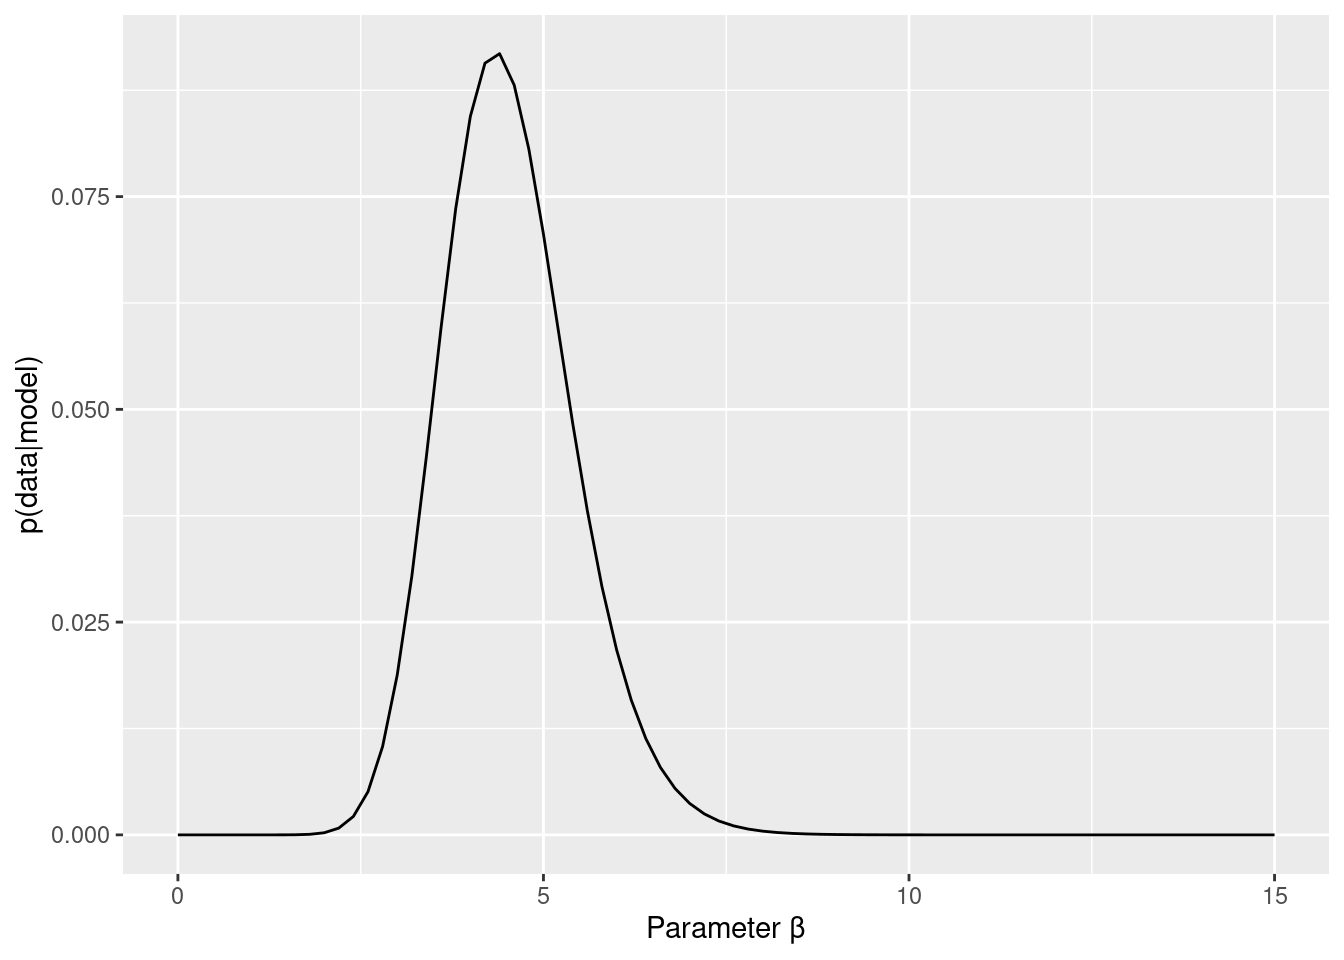
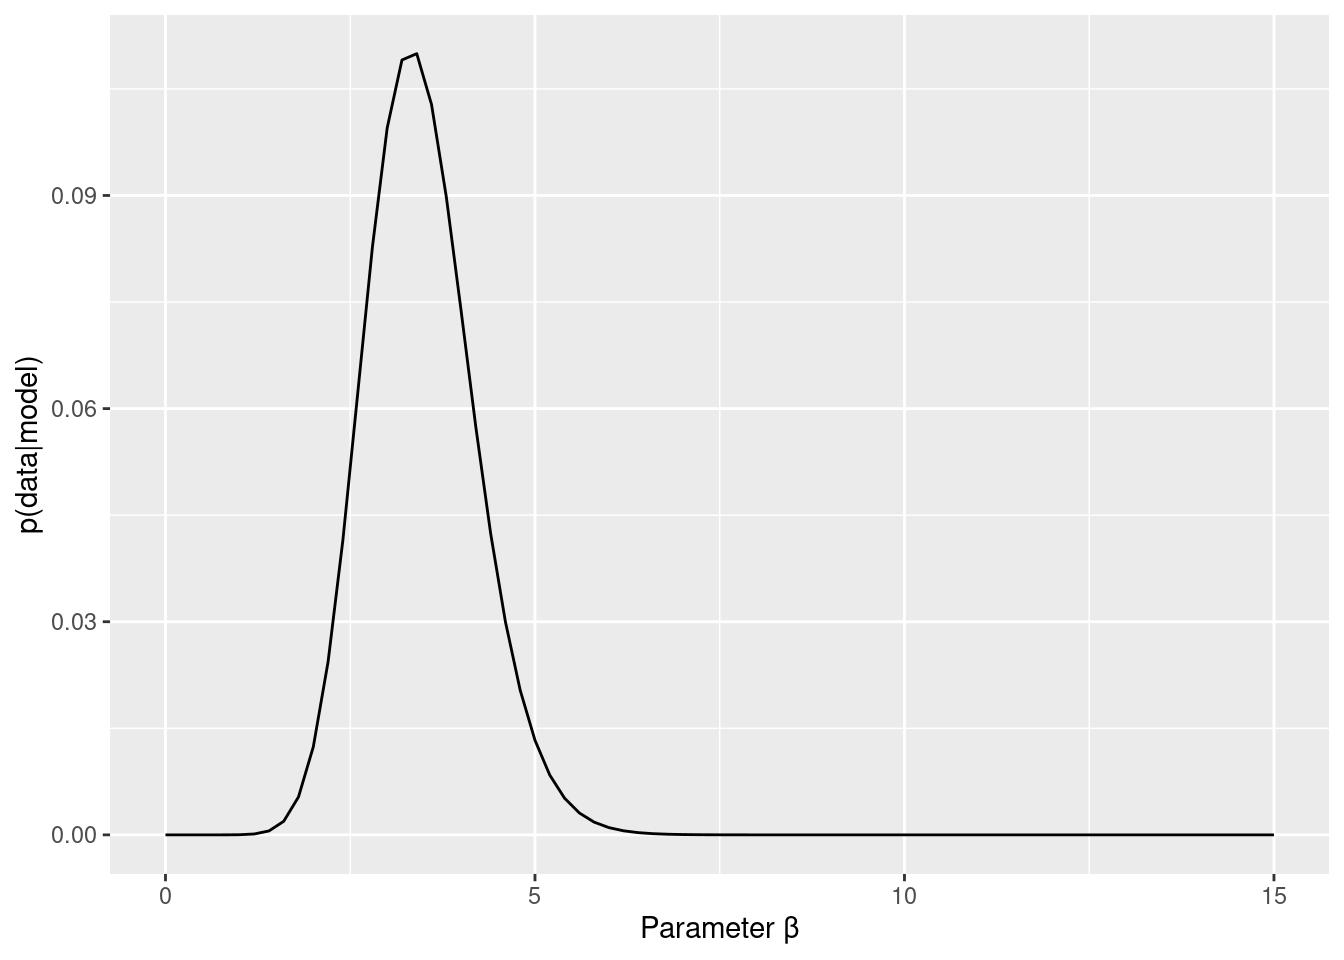
update

diff --git a/docs/how-to-cognitive-modeling-rl1.html b/docs/how-to-cognitive-modeling-rl1.html
@@ -386,8 +386,8 @@ div.tocify {
 </div>
 
 
-<div id="認知モデリングの推奨実践法" class="section level1">
-<h1>認知モデリングの推奨実践法</h1>
+<div id="認知モデリングの推奨実践法" class="section level2">
+<h2>認知モデリングの推奨実践法</h2>
 <ul>
 <li><p>Busemeyer &amp; Diederich(2010), Heathcote (2015), Palminteri et al.(2017)を参考にまとめると，以下のような感じになります。</p></li>
 <li><p>A 認知課題と認知モデルを準備</p></li>
@@ -403,17 +403,17 @@ div.tocify {
 <li>Heathcote, A., Brown, S. D., &amp; Wagenmakers, E.-J. (2015). An Introduction to Good Practices in Cognitive Modeling. In B. U. Forstmann &amp; E.-J. Wagenmakers (Eds.), An Introduction to Model-Based Cognitive Neuroscience (pp. 25–48). Springer New York.</li>
 <li>Palminteri, S., Wyart, V., &amp; Koechlin, E. (2017). The Importance of Falsification in Computational Cognitive Modeling. Trends in Cognitive Sciences, 21(6), 425–433.</li>
 </ul>
-</div>
-<div id="使用するrパッケージ" class="section level1">
-<h1>使用するRパッケージ</h1>
+<div id="使用するrパッケージ" class="section level3">
+<h3>使用するRパッケージ</h3>
 <pre class="r"><code>rm(list = ls())
 library(tidyverse)
 library(fields)</code></pre>
 </div>
-<div id="a-認知課題と認知モデルを準備" class="section level1">
-<h1>A 認知課題と認知モデルを準備</h1>
-<div id="逆転学習課題" class="section level2">
-<h2>逆転学習課題</h2>
+</div>
+<div id="a-認知課題と認知モデルを準備" class="section level2">
+<h2>A 認知課題と認知モデルを準備</h2>
+<div id="逆転学習課題" class="section level3">
+<h3>逆転学習課題</h3>
 <p>逆転学習課題は以下のような課題です。</p>
 <ul>
 <li><p>Cools et al.(2001)：合計80試行（前半40試行，後半逆転して40試行），フィードバックは顔（ポジティブが緑の嬉しい顔，ネガティブが赤の悲しい顔)，報酬:罰比は，80:20。</p></li>
@@ -421,6 +421,7 @@ library(fields)</code></pre>
 <li><p>den Ouden et al.(2013)を参考に，選択はマウスでクリックする，80試行は疑似ランダム化された事前に決めた順番で提示する，参加者には変化する正答刺激を特定するように教示する。</p></li>
 <li><p>Waegeman et al.(2014)を参考に，最大2000ms選択画面を呈示する（押したら次に進む），選択した刺激を枠で囲って500ms呈示し，フィードバックを500ms呈示し，500ms-1500ms固視点(+)を呈示する。</p></li>
 </ul>
+</div>
 <div id="逆転学習課題の構造の確認" class="section level3">
 <h3>逆転学習課題の構造の確認</h3>
 <p>s1は，前半40試行において20％の確率で報酬のフィードバックがなされ，後半40試行で80%の確率でフィードバックがなされます（s2はその逆になる）。prob_s1とprob_s2に確率を設定して，reward_s1とreward_s2でランダムに80%や20%の確率で報酬が出てくるのを設定します。</p>
@@ -437,9 +438,8 @@ library(fields)</code></pre>
   geom_point(aes(x = trial, y = reward_s2),colour = &#39;red&#39;)</code></pre>
 <p><img src="how-to-cognitive-modeling-rl1_files/figure-html/unnamed-chunk-3-1.png" width="672" /></p>
 </div>
-</div>
-<div id="強化学習モデルq-learningモデル" class="section level2">
-<h2>強化学習モデル(Q learningモデル)</h2>
+<div id="強化学習モデルq-learningモデル" class="section level3">
+<h3>強化学習モデル(Q learningモデル)</h3>
 <ul>
 <li>Q learningモデルにおける更新式は以下の通りになります。</li>
 </ul>
@@ -474,6 +474,7 @@ P\left(a_{i} \mid s\right)=\frac{\exp \left[\beta Q\left(s, a_{i}\right)\right]}
 <p><span class="math display">\[
 P(A)=\frac{\exp(\beta Q_{A})}{\exp(\beta Q_{A}) + \exp(\beta Q_{B})}
 \]</span></p>
+</div>
 <div id="q-learningの関数" class="section level3">
 <h3>Q learningの関数</h3>
 <p>上記のQ learningの計算を関数にすると以下のようになります。</p>
@@ -530,11 +531,10 @@ result %&gt;%
 <p><img src="how-to-cognitive-modeling-rl1_files/figure-html/unnamed-chunk-5-1.png" width="672" /></p>
 </div>
 </div>
-</div>
-<div id="b-人工データ生成とパラメータリカバリーを確認モデルや課題の修正" class="section level1">
-<h1>B 人工データ生成とパラメータリカバリーを確認（モデルや課題の修正）</h1>
-<div id="実行データの生成" class="section level2">
-<h2>実行データの生成</h2>
+<div id="b-人工データ生成とパラメータリカバリーを確認モデルや課題の修正" class="section level2">
+<h2>B 人工データ生成とパラメータリカバリーを確認（モデルや課題の修正）</h2>
+<div id="実行データの生成" class="section level3">
+<h3>実行データの生成</h3>
 <ul>
 <li>Q learningモデルとソフトマックス行動選択を用いて，個々の参加者のパラメータ推定を行うのが最終的な目標になります。</li>
 <li>すぐにリアルデータの推定をしたくなりますが，まずはシミュレーション(人工データ生成)から始めましょう。</li>
@@ -549,6 +549,7 @@ result %&gt;%
   geom_point(aes(x = trial, y = choice)) +
   geom_point(aes(x = trial, y = reward), colour = &#39;red&#39;) </code></pre>
 <p><img src="how-to-cognitive-modeling-rl1_files/figure-html/unnamed-chunk-6-1.png" width="672" /></p>
+</div>
 <div id="演習" class="section level3">
 <h3>演習</h3>
 <ul>
@@ -624,11 +625,11 @@ result %&gt;%
 <pre class="r"><code>data &lt;- q_learning_sim(alpha = 0.2, beta = 5,data = sim_data) 
 result &lt;- q_learning_ll(alpha = 0.2, beta = 5,data = data) 
 result$ll</code></pre>
-<pre><code>## [1] -13.75568</code></pre>
+<pre><code>## [1] -20.56276</code></pre>
 <p>alpha = 0.2, beta = 5で生成されたデータにたいして，alpha = 0.6, beta = 1の時の尤度を計算します。尤度が小さくなったかと思います。他にもαとβを変更して（生成時の値alpha = 0.2, beta = 5に近づけたり，遠ざけたりする），尤度の挙動を確認してみましょう。</p>
 <pre class="r"><code>result &lt;- q_learning_ll(alpha = 0.6, beta = 1,data = data) 
 result$ll</code></pre>
-<pre><code>## [1] -35.50751</code></pre>
+<pre><code>## [1] -37.90917</code></pre>
 <ul>
 <li>3.最良の評価を与えるパラメータを決定する →最も尤度が高くなるパラメータを探す（最適化）。最尤推定，ベイズ推定など色々な方法があるが，ここでは，単純なグリッドサーチを用いた最尤推定を行う。</li>
 </ul>
@@ -671,15 +672,14 @@ result$ll</code></pre>
 }</code></pre>
 </div>
 </div>
-</div>
-<div id="最尤推定グリッドサーチの実施" class="section level2">
-<h2>最尤推定（グリッドサーチ）の実施</h2>
+<div id="最尤推定グリッドサーチの実施" class="section level3">
+<h3>最尤推定（グリッドサーチ）の実施</h3>
 <p>grid_search関数を使って，最尤推定値を探します。まず，alpha=0.3,beta=5に設定したq_learning_sim関数でデータを作ります。そして，grid_search関数に作ったdataをいれてグリッドサーチをさせます。ちょっと時間がかかります。</p>
 <pre class="r"><code>data &lt;- q_learning_sim(alpha = 0.3, beta = 5,data = sim_data) 
 grid_result &lt;- grid_search(data)</code></pre>
 </div>
-<div id="次元データのプロット" class="section level2">
-<h2>３次元データのプロット</h2>
+<div id="次元データのプロット" class="section level3">
+<h3>３次元データのプロット</h3>
 <p>αとβと尤度の３次元データをプロットしてみます。データ生成時に設定したパラメータの値周辺になっているでしょうか？</p>
 <pre class="r"><code>rownames(grid_result$store_3d) &lt;- NULL
 y &lt;- seq(0,1,0.01)
@@ -687,8 +687,8 @@ x &lt;- seq(0,15,0.2)
 image.plot(x,y,grid_result$store_3d)</code></pre>
 <p><img src="how-to-cognitive-modeling-rl1_files/figure-html/unnamed-chunk-12-1.png" width="672" /></p>
 </div>
-<div id="周辺尤度" class="section level2">
-<h2>周辺尤度</h2>
+<div id="周辺尤度" class="section level3">
+<h3>周辺尤度</h3>
 <p>3Dプロットだとちょっと判断が難しいので，周辺尤度を求めてみます。例えば，βがどのような値をとるかにかかわらないαの尤度が，αの周辺尤度です。つまり，αの値ごとに，平均尤度を計算する感じです（βも同様です）。</p>
 <pre class="r"><code>#対数尤度を尤度へ
 matrix_ll &lt;- exp(grid_result$store_3d)
@@ -714,18 +714,18 @@ beta_marginal_like_data %&gt;%
   labs(x=&quot;Parameter α&quot;, y=&quot;p(data|model)&quot;)</code></pre>
 <p><img src="how-to-cognitive-modeling-rl1_files/figure-html/unnamed-chunk-13-2.png" width="672" /></p>
 </div>
-<div id="最尤推定値とパラメータリカバリのチェック" class="section level2">
-<h2>最尤推定値とパラメータリカバリのチェック</h2>
+<div id="最尤推定値とパラメータリカバリのチェック" class="section level3">
+<h3>最尤推定値とパラメータリカバリのチェック</h3>
 <p>最も対数尤度が高いパラメータの値を選択するのが最尤推定法です。which.maxで最も対数尤度の高いパラメータの値をとってきましょう。α=0.3，β=5で作ったデータなので，パラメータリカバリできているか確認しましょう。なお，もともとのデータ生成の部分で確率的な変動が入るので，ある程度誤差ははいります。一致するかというよりは，大幅にずれてないかチェックします。</p>
 <pre class="r"><code># 最尤推定値
 maxIndex &lt;- which.max(grid_result$calc_results$store_loglike)
 paste(&quot;最尤推定値: α =&quot;,grid_result$calc_results$store_alpha[maxIndex],
       &quot;β =&quot;,grid_result$calc_results$store_beta[maxIndex], 
       &quot;,対数尤度: Log Likelihood = &quot;,grid_result$calc_results$store_loglike[maxIndex])</code></pre>
-<pre><code>## [1] &quot;最尤推定値: α = 0.3 β = 4.4 ,対数尤度: Log Likelihood =  -21.7964488908534&quot;</code></pre>
+<pre><code>## [1] &quot;最尤推定値: α = 0.39 β = 3.4 ,対数尤度: Log Likelihood =  -31.5860513924687&quot;</code></pre>
 </div>
-<div id="価値と行動選択確率のプロットモデルシミュレーション" class="section level2">
-<h2>価値と行動選択確率のプロット（モデル・シミュレーション）</h2>
+<div id="価値と行動選択確率のプロットモデルシミュレーション" class="section level3">
+<h3>価値と行動選択確率のプロット（モデル・シミュレーション）</h3>
 <ul>
 <li><p>与えられたモデルがデータを生成する能力のことを生成パフォーマンスと言います（Palminteri et al., 2017）。この生成パフォーマンスを検討するには，パラメータ推定によって最もフィットしたパラメータ値と認知モデルを用いてデータ生成を行って，実際の行動レベルでの効果が検出できるのかを検討するモデル・シミュレーションが必要です（Palminteri et al., 2017）。</p></li>
 <li><p>さっそくグリッドサーチによって推定された最尤推定値を q_learning_sim()に投入して，データ生成をしてみましょう。そして，今回生成されたデータ（選択反応）と最初のデータをまとめたデータセットを作りましょう。</p></li>
@@ -750,27 +750,26 @@ data_original_estimated &lt;- tibble(trial = data$trial,
 <pre class="r"><code>table(data_original_estimated$choice_original,data_original_estimated$choice_estimated)</code></pre>
 <pre><code>##    
 ##      0  1
-##   0 35  8
-##   1  4 33</code></pre>
+##   0 32 11
+##   1 12 25</code></pre>
 </div>
 </div>
-<div id="c-データ収集と行動データを確認" class="section level1">
-<h1>C データ収集と行動データを確認</h1>
+<div id="c-データ収集と行動データを確認" class="section level2">
+<h2>C データ収集と行動データを確認</h2>
 <p>では，実験をおこなって，行動データを収集したことにしましょう。以下では，国里が用意した模擬データを使って解析を行います。以下を実行して，データをダウンロードください。</p>
 <pre><code>temp &lt;- tempfile()
 download.file(&quot;https://github.com/kunisatoLab/main/raw/master/materials/data.zip&quot;,temp)
 unzip(temp)
 unlink(temp)</code></pre>
-<div id="データの確認" class="section level2">
-<h2>データの確認</h2>
+<div id="データの確認" class="section level3">
+<h3>データの確認</h3>
 <pre class="r"><code>#データフォルダをカレントディレクトリに設定して中のファイルの情報を取得する
 setwd(&quot;data&quot;)
 file_names &lt;- list.files()
 file_names</code></pre>
 <pre><code>## [1] &quot;sub01.csv&quot; &quot;sub02.csv&quot; &quot;sub03.csv&quot; &quot;sub04.csv&quot; &quot;sub05.csv&quot;</code></pre>
-</div>
-<div id="sub01のデータの確認" class="section level2">
-<h2>sub01のデータの確認</h2>
+<div id="sub01のデータの確認" class="section level4">
+<h4>sub01のデータの確認</h4>
 <p>sub01.csvをread_csv()で読み込む</p>
 <pre class="r"><code>sub01 &lt;- read_csv(&quot;data/sub01.csv&quot;)</code></pre>
 <pre><code>## 
@@ -870,14 +869,16 @@ sub01</code></pre>
 ## 10    10      0 1268.1650000013178      0     0.2         0         0
 ## # … with 70 more rows</code></pre>
 </div>
-<div id="sub01の選択の可視化" class="section level2">
-<h2>sub01の選択の可視化</h2>
+<div id="sub01の選択の可視化" class="section level4">
+<h4>sub01の選択の可視化</h4>
 <pre class="r"><code>sub01 %&gt;% 
   ggplot(aes(x = trial, y = s1_prob)) +
   geom_line() +
   geom_line(aes(x= trial, y = choice), colour = &#39;blue&#39;) +
   geom_point(aes(x = trial, y = reward),colour = &#39;red&#39;)</code></pre>
 <p><img src="how-to-cognitive-modeling-rl1_files/figure-html/unnamed-chunk-23-1.png" width="672" /></p>
+</div>
+</div>
 </div>
 <div id="名分のデータを読み込んでlong形式のデータにする" class="section level2">
 <h2>5名分のデータを読み込んでlong形式のデータにする</h2>
@@ -905,11 +906,10 @@ for (i in 1:length(file_names)) {
     geom_point(aes(x = trial, y = reward),colour = &#39;red&#39;)
 }</code></pre>
 </div>
-</div>
-<div id="d-パラメータ推定" class="section level1">
-<h1>D パラメータ推定</h1>
-<div id="以降の解析の関数化" class="section level2">
-<h2>以降の解析の関数化</h2>
+<div id="d-パラメータ推定" class="section level2">
+<h2>D パラメータ推定</h2>
+<div id="以降の解析の関数化" class="section level3">
+<h3>以降の解析の関数化</h3>
 <p>以降は，繰り返しも多いので，dataフォルダ内のデータに対して，グリッドサーチを用いた最尤推定を行って結果を返す関数を準備します。idに番号をいれたら，そのid番号の参加者のパラメータを推定する関数として，estimate_gridを作りました。長いですが，上でやっていることを並べただけです。</p>
 <pre class="r"><code>estimate_grid &lt;- function(data, id_no){
   #指定したidでグリッドサーチで推定
@@ -973,27 +973,27 @@ for (i in 1:length(file_names)) {
     geom_line(aes(x= trial, y = value_s2), colour = &#39;orange&#39;,linetype=&quot;dashed&quot;) 
   print(p3)
 }</code></pre>
-</div>
-<div id="モデルフィッティングsub01" class="section level2">
-<h2>モデル・フィッティング(sub01)</h2>
+<div id="モデルフィッティングsub01" class="section level4">
+<h4>モデル・フィッティング(sub01)</h4>
 <p>上の方で関数を定義したので，１行でいろいろと出力してくれます。なお，sub01は国里がかなりグリーディーな選択をしたので，βが15を越えてしまっています。</p>
 <pre class="r"><code>estimate_grid(data = data_long, id_no = 1)</code></pre>
 <pre><code>## [1] &quot;最尤推定値: α = 0.62 β = 15 ,対数尤度: Log Likelihood =  -2.44106911935233&quot;</code></pre>
 <p><img src="how-to-cognitive-modeling-rl1_files/figure-html/unnamed-chunk-26-1.png" width="672" /><img src="how-to-cognitive-modeling-rl1_files/figure-html/unnamed-chunk-26-2.png" width="672" /><img src="how-to-cognitive-modeling-rl1_files/figure-html/unnamed-chunk-26-3.png" width="672" /><img src="how-to-cognitive-modeling-rl1_files/figure-html/unnamed-chunk-26-4.png" width="672" /></p>
 </div>
-<div id="モデルフィッティングsub02" class="section level2">
-<h2>モデル・フィッティング(sub02)</h2>
+<div id="モデルフィッティングsub02" class="section level4">
+<h4>モデル・フィッティング(sub02)</h4>
 <p>sub02は，国里が学習率が高くなるように反応をしてみました。</p>
 <pre class="r"><code>estimate_grid(data = data_long, id = 2)</code></pre>
 <pre><code>## [1] &quot;最尤推定値: α = 0.870000000000001 β = 1.6 ,対数尤度: Log Likelihood =  -44.7140662615762&quot;</code></pre>
 <p><img src="how-to-cognitive-modeling-rl1_files/figure-html/unnamed-chunk-27-1.png" width="672" /><img src="how-to-cognitive-modeling-rl1_files/figure-html/unnamed-chunk-27-2.png" width="672" /><img src="how-to-cognitive-modeling-rl1_files/figure-html/unnamed-chunk-27-3.png" width="672" /><img src="how-to-cognitive-modeling-rl1_files/figure-html/unnamed-chunk-27-4.png" width="672" /></p>
 </div>
-<div id="演習-1" class="section level2">
-<h2>演習</h2>
+</div>
+<div id="演習-1" class="section level3">
+<h3>演習</h3>
 <p>sub03以降も確認して，自分のデータでも確かめてみよう！</p>
 </div>
-<div id="グリッドサーチの注意点" class="section level2">
-<h2>グリッドサーチの注意点</h2>
+<div id="グリッドサーチの注意点" class="section level3">
+<h3>グリッドサーチの注意点</h3>
 <p>グリッドサーチの場合，探索範囲と探索の細かさは，研究者が決める。grid_search2()として，αは0から1の範囲だがキメが細かくない（0.2刻み）,βは肌目の細かさはかわらないが0から1の範囲で探索する関数を作ってみた。</p>
 <pre class="r"><code>grid_search2 &lt;- function(data) {
   #　値を保存する変数の設定
@@ -1038,13 +1038,13 @@ image.plot(x,y,grid_result1$store_3d)</code></pre>
 paste(&quot;最尤推定値: α =&quot;,grid_result1$calc_results$store_alpha[maxIndex],
       &quot;β =&quot;,grid_result1$calc_results$store_beta[maxIndex], 
       &quot;,対数尤度: Log Likelihood = &quot;,grid_result1$calc_results$store_loglike[maxIndex])</code></pre>
-<pre><code>## [1] &quot;最尤推定値: α = 0.34 β = 6.2 ,対数尤度: Log Likelihood =  -10.9655878563315&quot;</code></pre>
+<pre><code>## [1] &quot;最尤推定値: α = 0.33 β = 9.6 ,対数尤度: Log Likelihood =  -5.9616241315178&quot;</code></pre>
 <p>当たり前ですが，間隔を広げたり，範囲を狭めると，範囲外の推定値は求まりませんし（βは範囲外），きめが荒いので，推定値もずれます。実際は，グリッドサーチではなく，最適化手法を使って最尤推定値を求めたり，ベイズ推定で求めたりします。ただ，推定においては，狭い範囲内で最も良いだけの値（局所最適解という）をもってくる可能性があるのは気をつけないといけません。</p>
 <pre class="r"><code>maxIndex &lt;- which.max(grid_result2$calc_results$store_loglike)
 paste(&quot;最尤推定値: α =&quot;,grid_result2$calc_results$store_alpha[maxIndex],
       &quot;β =&quot;,grid_result2$calc_results$store_beta[maxIndex], 
       &quot;,対数尤度: Log Likelihood = &quot;,grid_result2$calc_results$store_loglike[maxIndex])</code></pre>
-<pre><code>## [1] &quot;最尤推定値: α = 1 β = 1 ,対数尤度: Log Likelihood =  -33.5189883831671&quot;</code></pre>
+<pre><code>## [1] &quot;最尤推定値: α = 0.8 β = 1 ,対数尤度: Log Likelihood =  -33.1068928463563&quot;</code></pre>
 <pre class="r"><code>rownames(grid_result2$store_3d) &lt;- NULL
 y &lt;- seq(0,1,0.2)
 x &lt;- seq(0,1,0.2)
